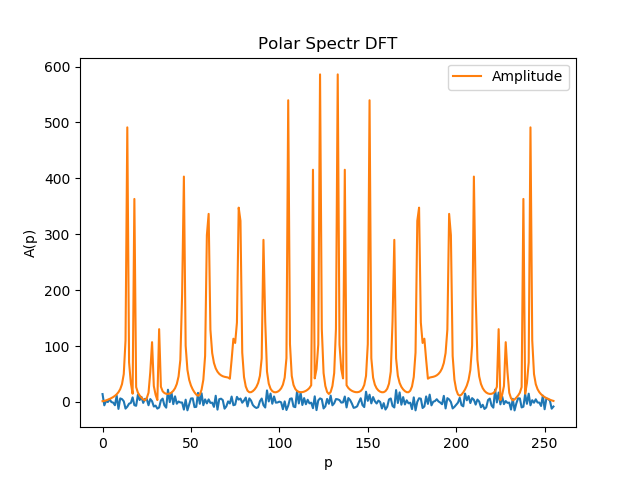
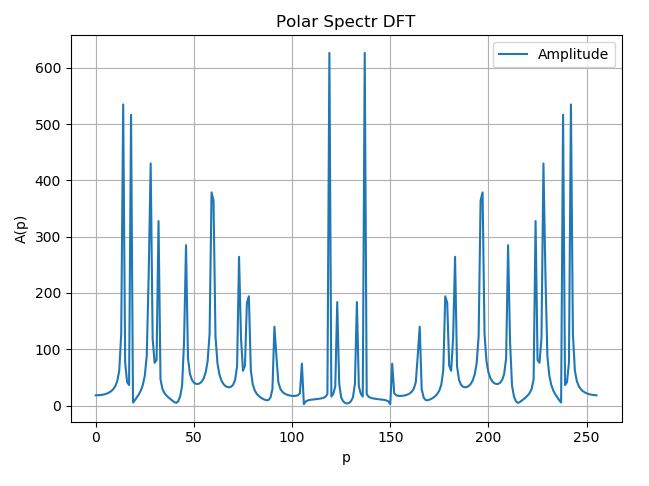
Initial commit

diff --git a/lab_2.1_2.2.py b/lab_2.1_2.2.py
@@ -60,16 +60,14 @@ def fft(signal):
 signal = create_signals(n, N, omega)
 plot = create_plot(signal, "t", "x(t)", "Signal", "X(t)", "blue")
 plt.grid()
-plt.savefig('signal.png')
-
+plt.show()
 
 spectr_dft = dft(signal)
 polar_spectr_dft = np.array(list(map(lambda x: cmath.polar(x), spectr_dft)))[:, 0]
 ampl_dft = create_plot(polar_spectr_dft, "p", "A(p)", "Polar Spectr DFT", "Amplitude")
 plt.legend(handles=[ampl_dft], loc='upper right')
 plt.grid()
-plt.savefig('DFT.png')
-
+plt.show()
 
 
 spectr_fft = fft(signal)
@@ -77,4 +75,4 @@ polar_spectr_fft = np.array(list(map(lambda x: cmath.polar(x), spectr_fft)))[:, 
 ampl_fft = create_plot(polar_spectr_fft, "p", "A(p)", "Polar Spectr FFT", "Amplitude")
 plt.legend(handles=[ampl_fft], loc='upper right')
 plt.grid()
-plt.savefig('FFT.png')
+plt.show()
